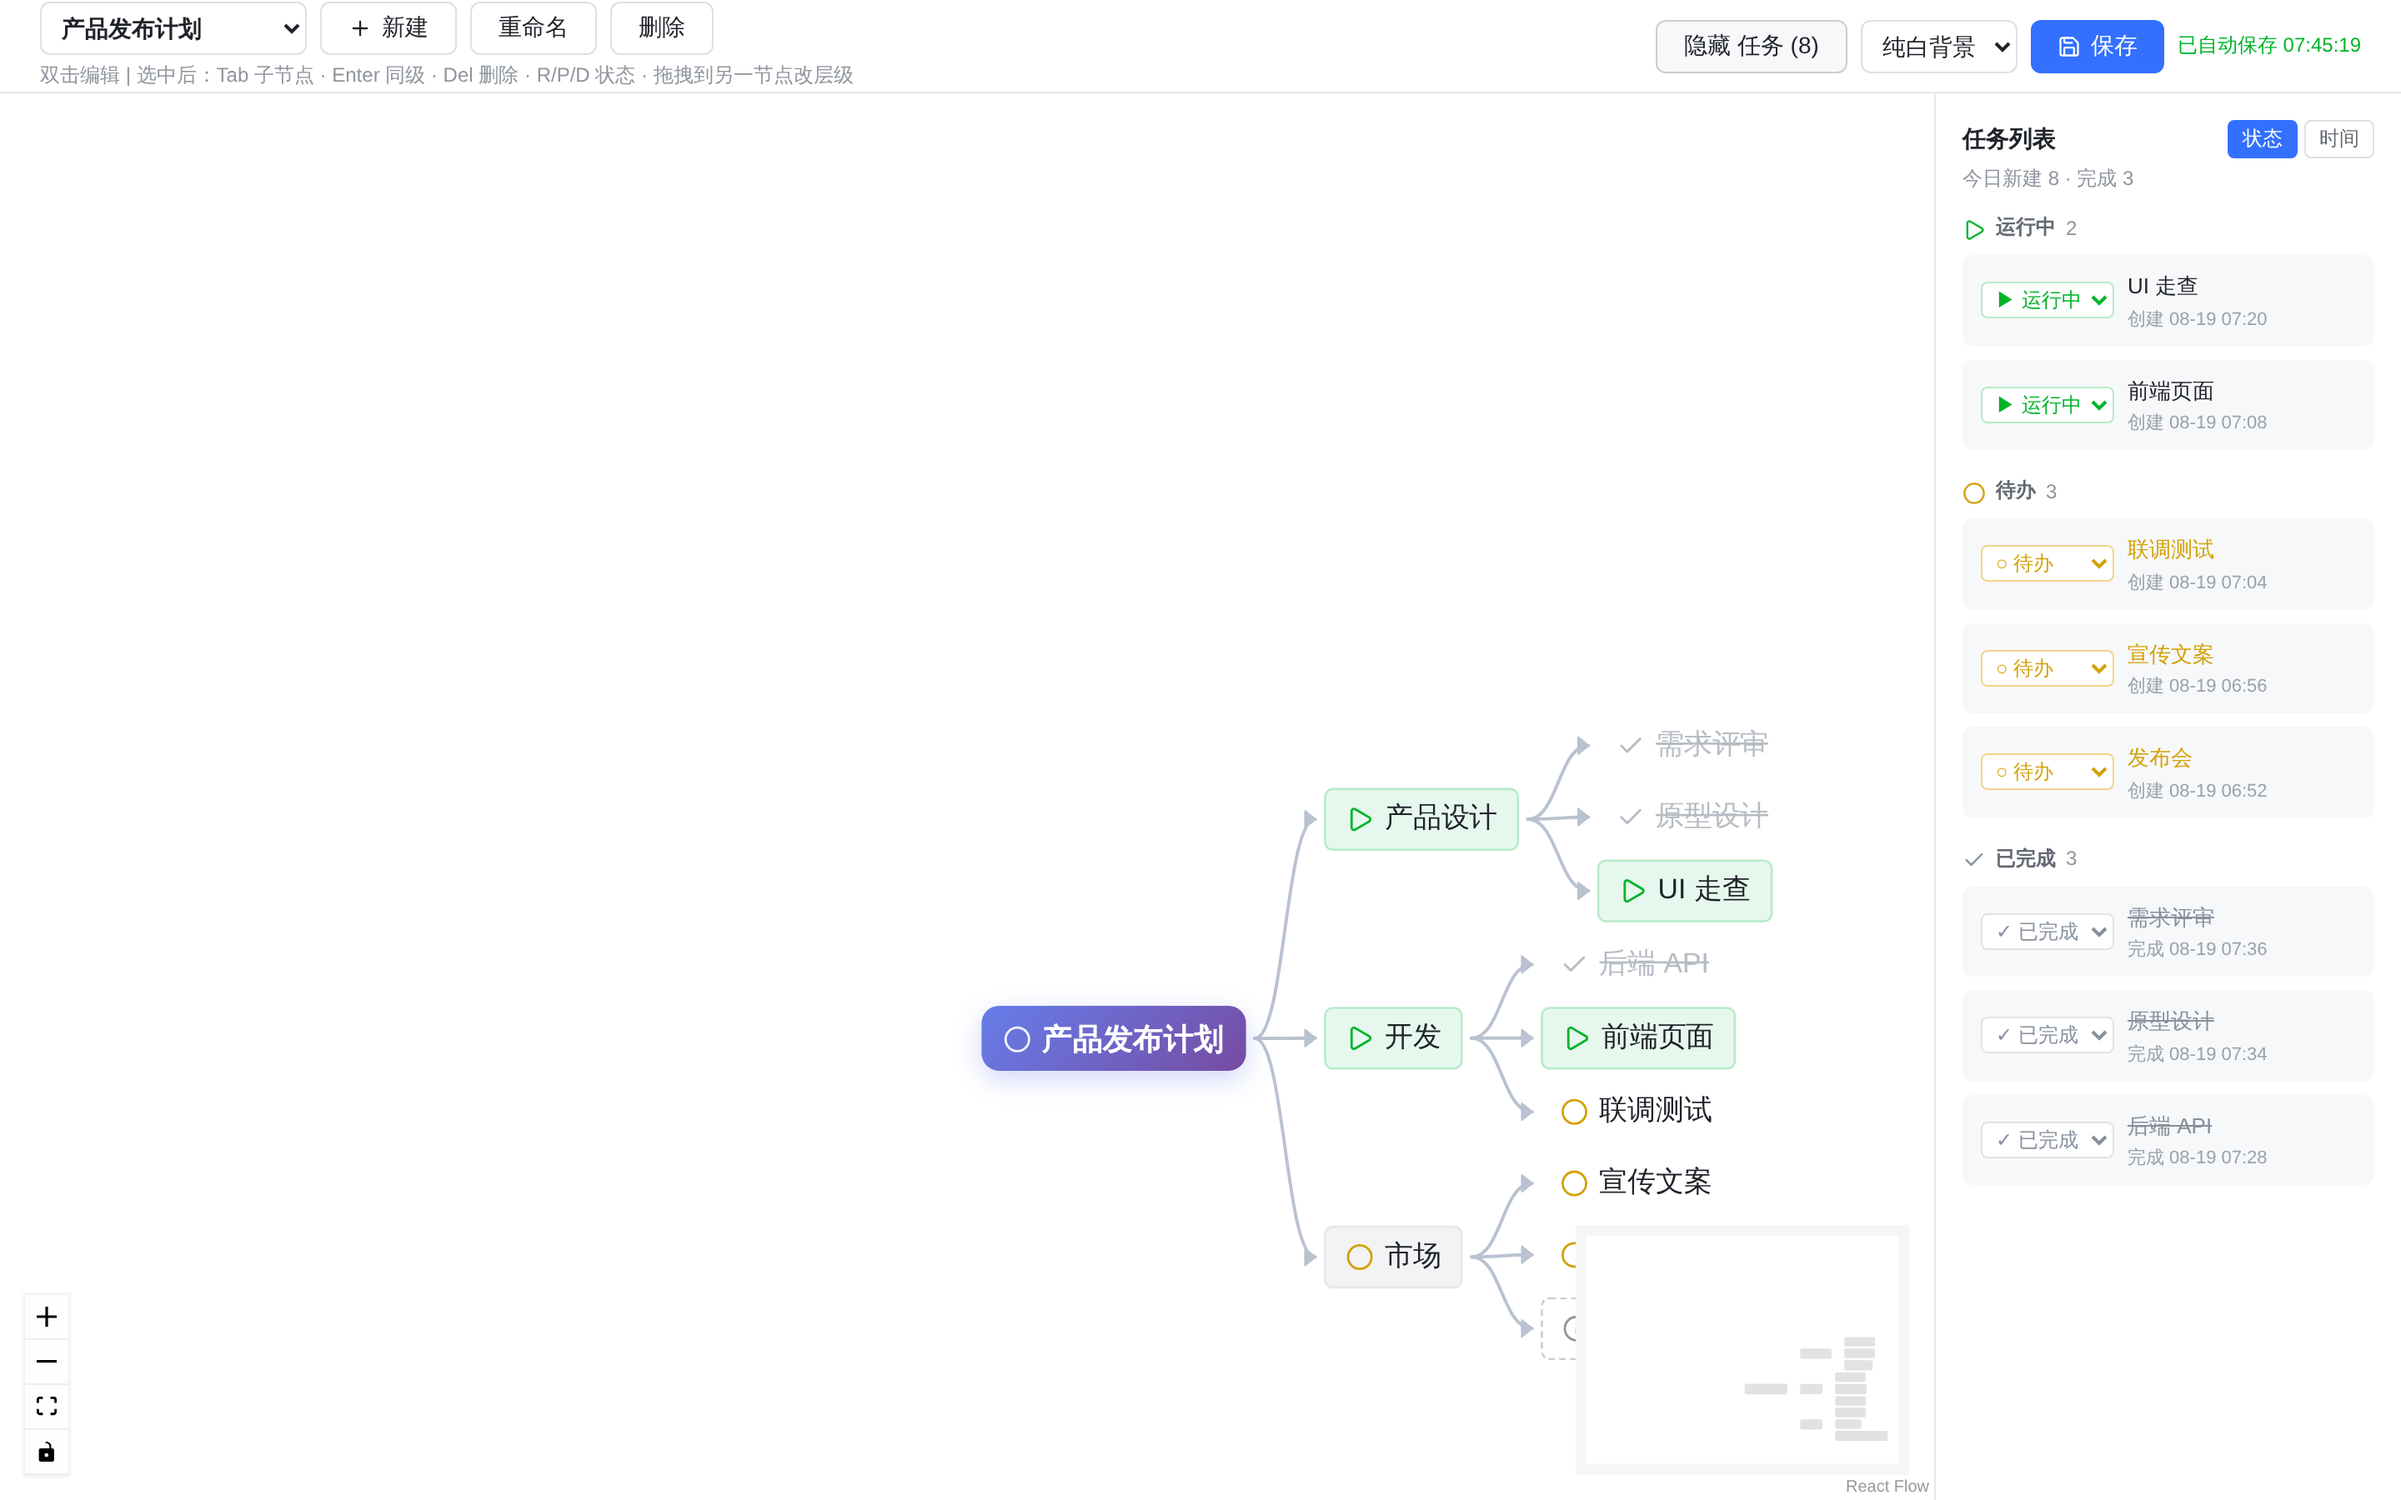
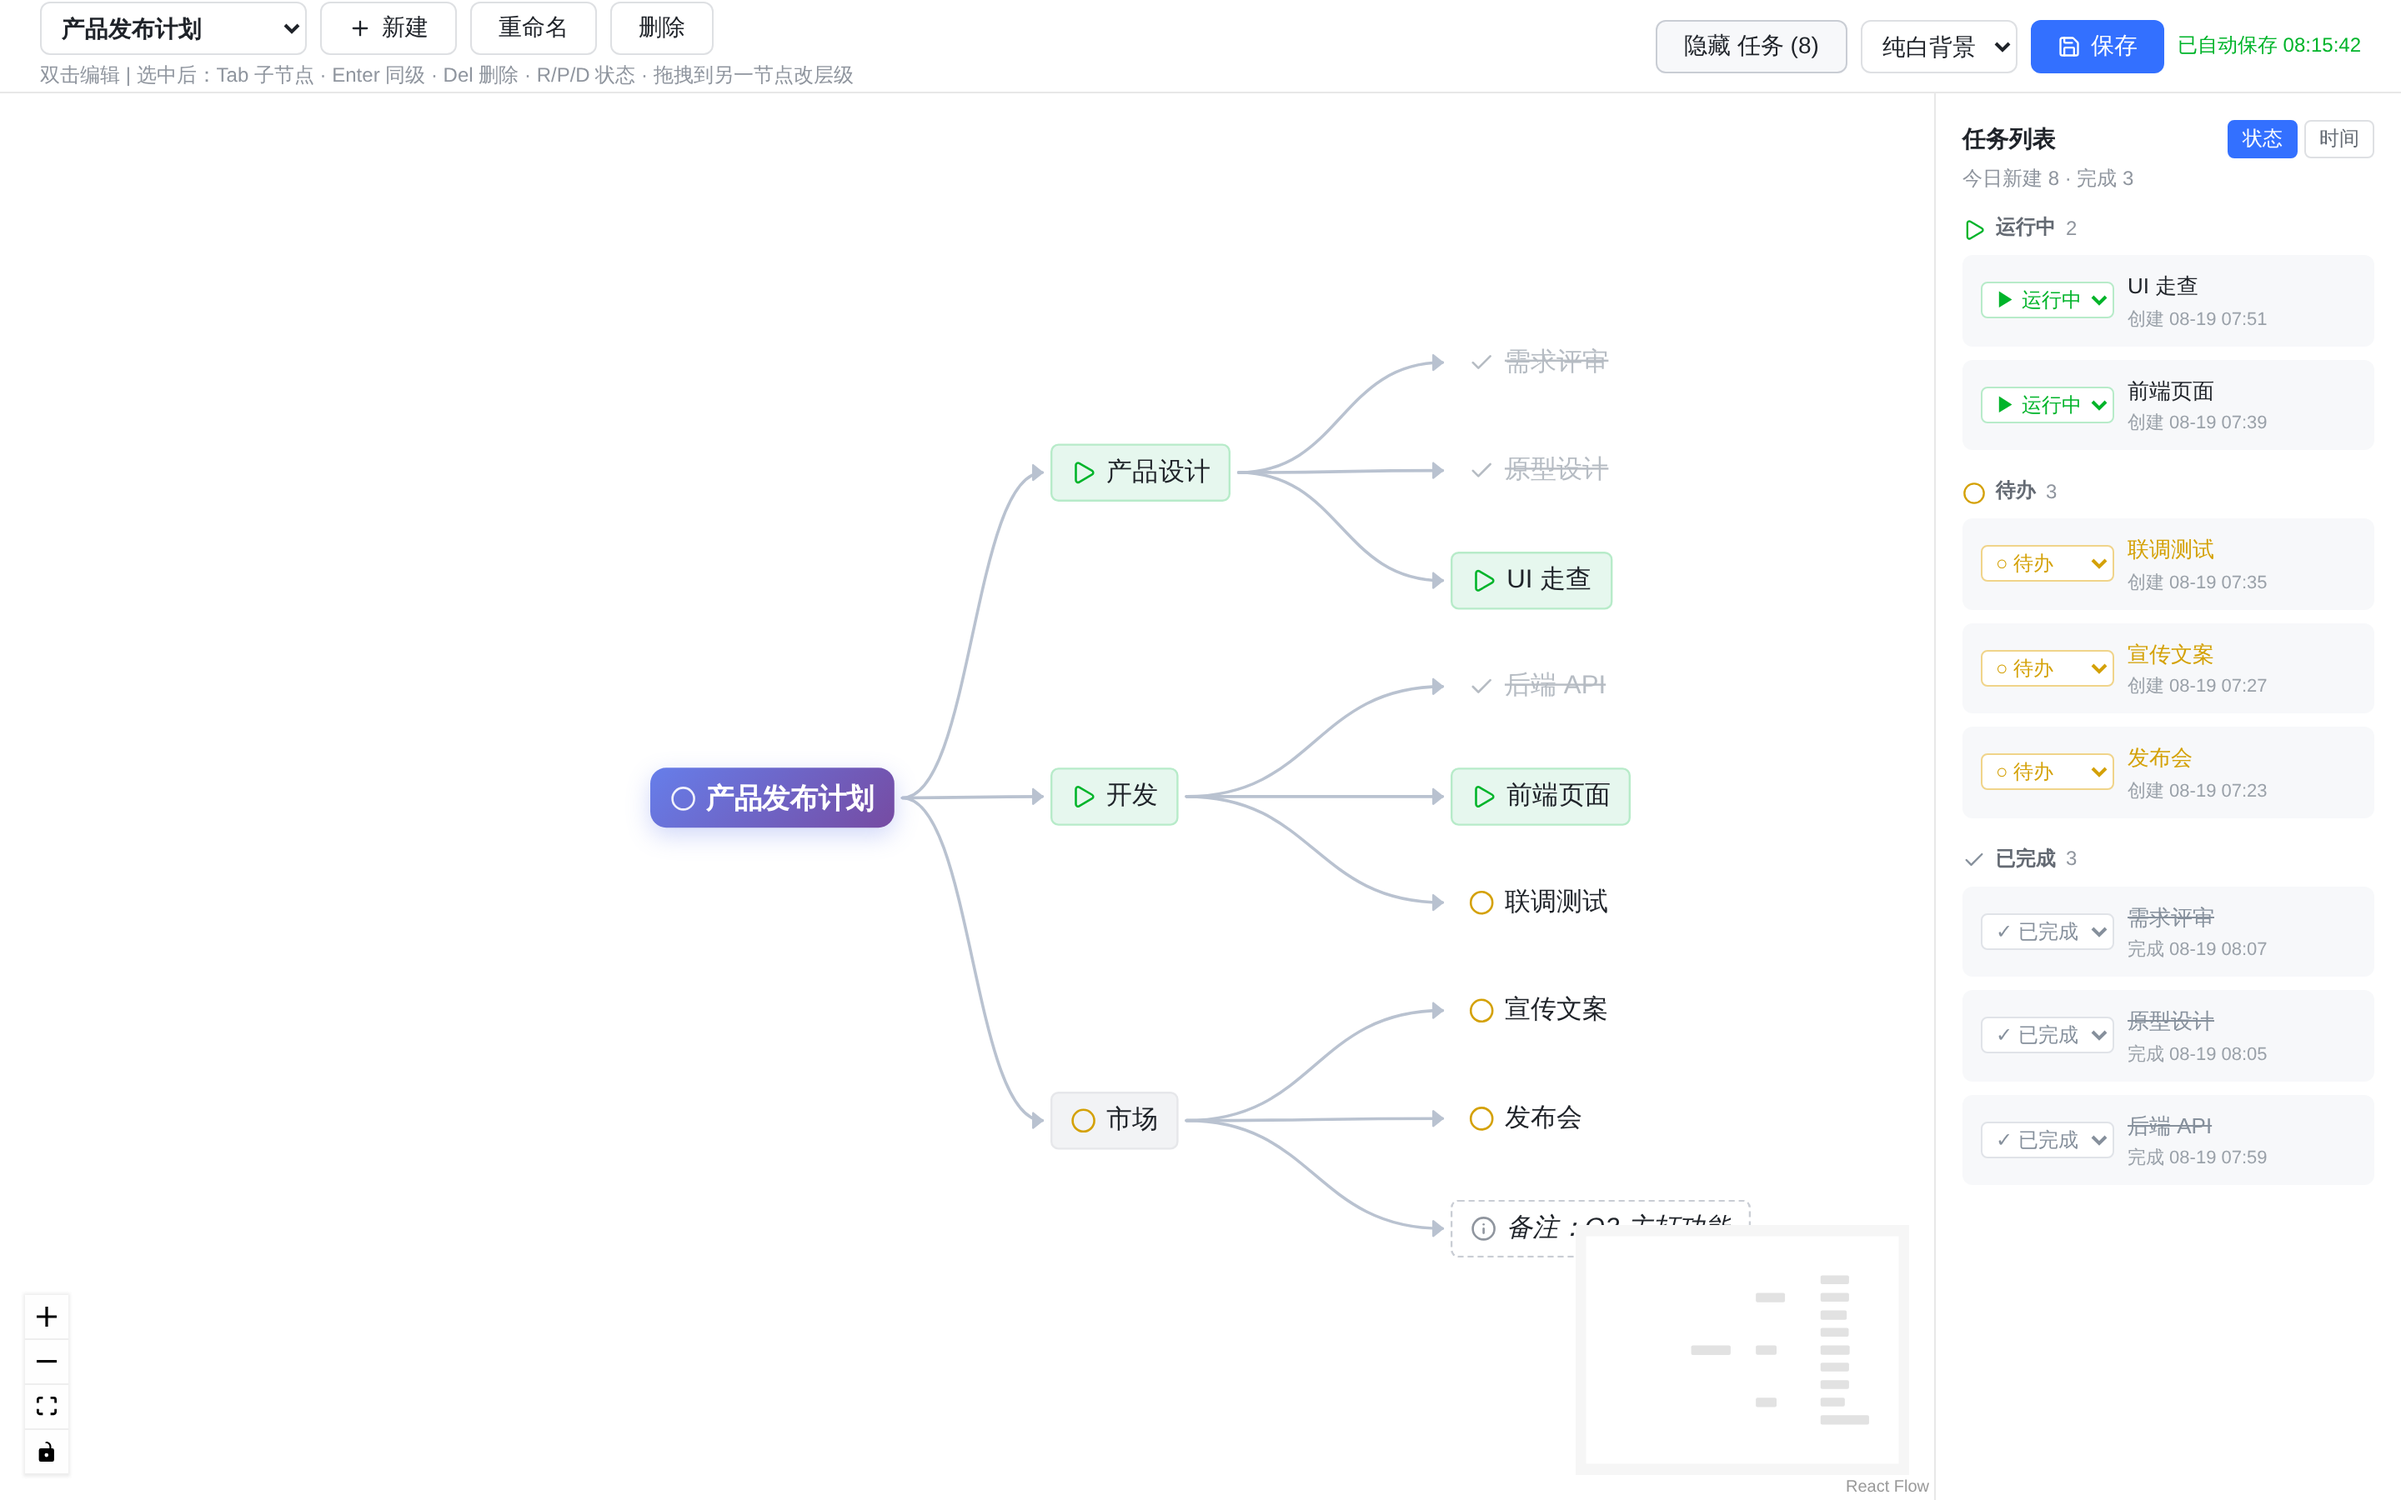
fix: 布局改回固定缩进列对齐（截图不再歪斜），重新生成 README 截图

diff --git a/web/src/MindMap.jsx b/web/src/MindMap.jsx
@@ -641,8 +641,7 @@ export default function MindMap() {
     initProjects();
   }, []);
 
-  // 自动布局函数：飞书风格的紧凑大纲树（每节点一行，父在上、子缩进在下）
-  // 自动布局函数：子节点贴着父节点右侧（动态缩进），不同层级不再强制同列
+  // 自动布局函数：固定缩进的经典树形（每层对齐在同一竖线上，父节点垂直居中）
   const autoLayout = React.useCallback(() => {
     setNodes(nds => {
       const nodeMap = new Map(nds.map(n => [n.id, { ...n }]));
@@ -664,56 +663,51 @@ export default function MindMap() {
         .filter(n => !edgeList.some(e => e.target === n.id))
         .sort((a, b) => (a.position?.y || 0) - (b.position?.y || 0));
 
-      const H_GAP = 36;   // 父节点右边缘到子节点左边缘的水平间距
-      const V_GAP = 6;    // 兄弟节点垂直间距
-      const ROOT_GAP = 24;
       const START_X = 24;
       const START_Y = 28;
-
-      // 节点尺寸：优先用已测量的实际尺寸，否则按文字长度估算
-      const nodeW = (n) => (n.width && n.width > 0)
-        ? n.width
-        : Math.max(60, Math.min(220, (n.data?.label?.length || 2) * 13 + 36));
-      const nodeH = (n) => (n.height && n.height > 0) ? n.height : 40;
+      const INDENT_X = 200;
+      const LEAF_H = 46;
+      const LEAF_W = 220;
+      const GAP_Y = 8;
+      const ROOT_GAP = 28;
 
       const layoutNode = (nodeId, x, y) => {
         const node = nodeMap.get(nodeId);
-        if (!node) return 0;
+        if (!node) return { w: 0, h: 0 };
 
-        const w = nodeW(node);
-        const h = nodeH(node);
         node.position = { x, y };
 
         const kids = childrenMap.get(nodeId) || [];
-        if (kids.length === 0) return h;
-
-        const childX = x + w + H_GAP;
-        let cy = y;
-        let totalH = 0;
-        kids.forEach(kid => {
-          const kh = layoutNode(kid, childX, cy);
-          cy += kh + V_GAP;
-          totalH += kh + V_GAP;
-        });
-        totalH -= V_GAP;
-
-        if (totalH > h) {
-          node.position.y = y + (totalH - h) / 2;
+        if (kids.length === 0) {
+          return { w: LEAF_W, h: LEAF_H };
         }
-        return Math.max(totalH, h);
+
+        let cy = y;
+        let mw = LEAF_W;
+        kids.forEach(kid => {
+          const r = layoutNode(kid, x + INDENT_X, cy);
+          cy += r.h + GAP_Y;
+          mw = Math.max(mw, INDENT_X + r.w);
+        });
+
+        const totalH = cy - y - GAP_Y;
+        if (totalH > LEAF_H) {
+          node.position.y = y + (totalH - LEAF_H) / 2;
+        }
+        return { w: mw, h: Math.max(totalH, LEAF_H) };
       };
 
       let cy = START_Y;
       rootNodes.forEach((root, i) => {
-        const rh = layoutNode(root.id, START_X, cy);
-        cy += rh + (i < rootNodes.length - 1 ? ROOT_GAP : 0);
+        const r = layoutNode(root.id, START_X, cy);
+        cy += r.h + (i < rootNodes.length - 1 ? ROOT_GAP : 0);
       });
 
       return Array.from(nodeMap.values());
     });
 
     requestAnimationFrame(() => {
-      flowRef.current?.fitView({ padding: 0.08, duration: 200, maxZoom: 1.3 });
+      flowRef.current?.fitView({ padding: 0.08, duration: 200, maxZoom: 1.2 });
     });
   }, [setNodes]);
 
